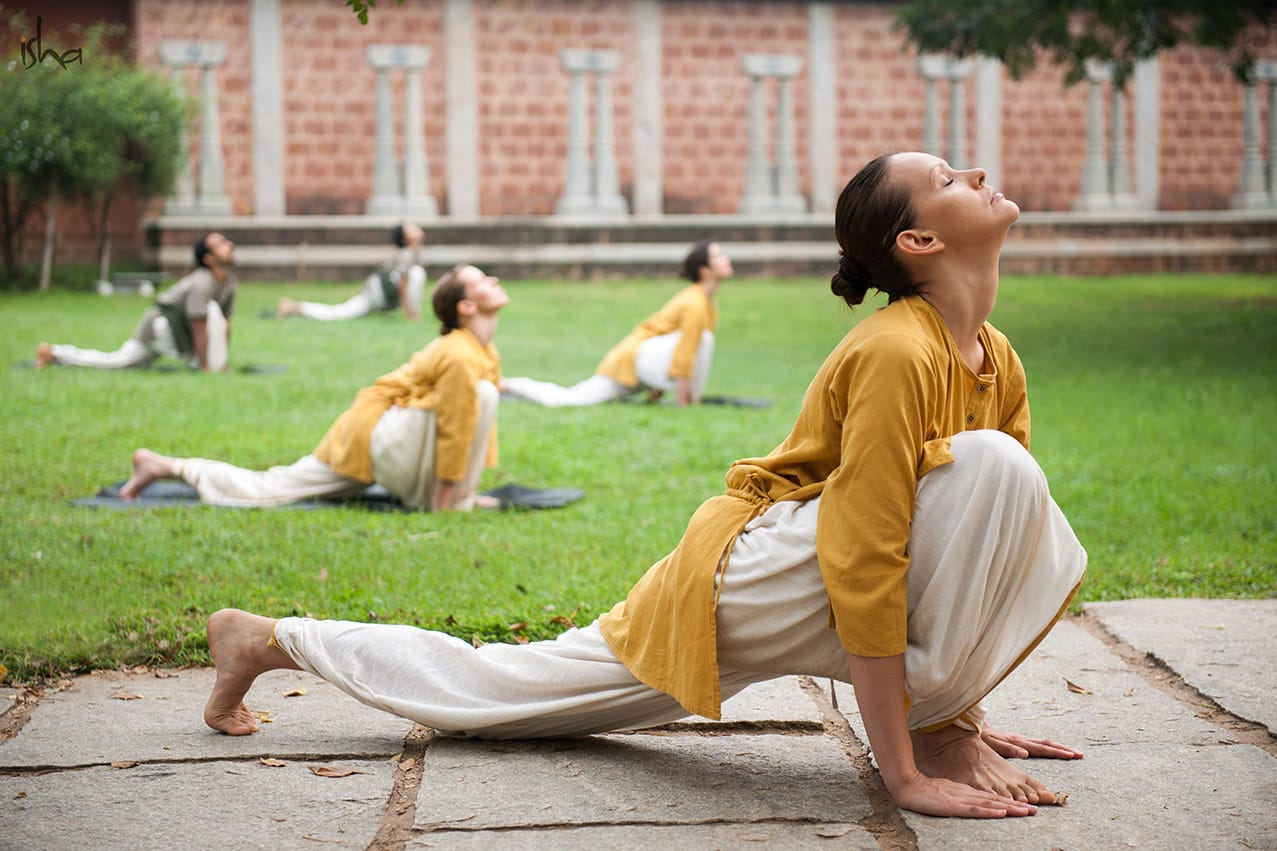
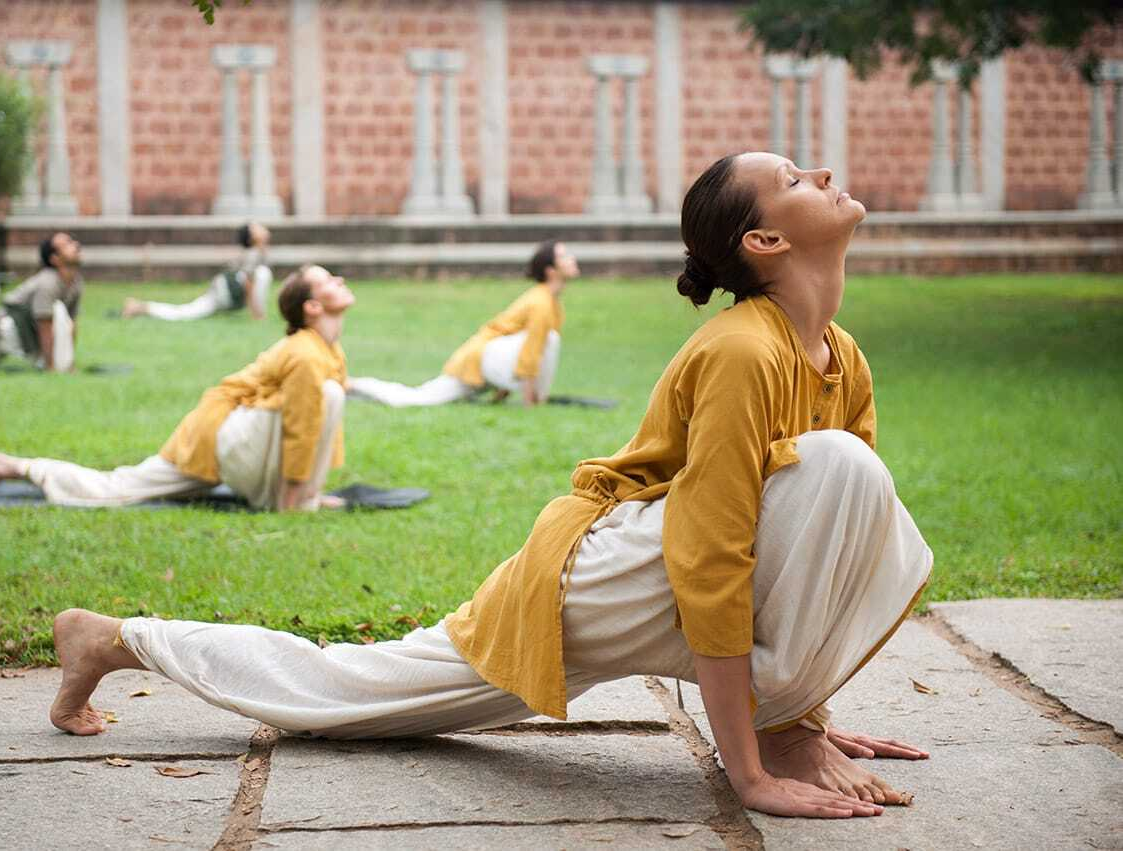
Remove certified badge overlay from Reeta's photo

diff --git a/index.html b/index.html
@@ -374,10 +374,7 @@
         <div class="guru-frame">
           <img src="images/reeta_yoga_teacher.png" alt="Reeta — Founder &amp; Isha Hatha Yoga Teacher, Yogartha Dehradun" class="guru-img" />
         </div>
-        <div class="guru-img-badge">
-          <span class="badge-icon"><svg viewBox="0 0 44 44" fill="none" xmlns="http://www.w3.org/2000/svg"><circle cx="22" cy="22" r="17" stroke="currentColor" stroke-width="1.5"/><path d="M13 22 L19 28 L31 16" stroke="currentColor" stroke-width="1.5" stroke-linecap="round" stroke-linejoin="round"/></svg></span>
-          Certified Isha Hatha Yoga Teacher
-        </div>
+
         <div class="guru-doodle">
           <img src="images/isha_hatha_symbol.png" alt="" class="mandala-deco" />
         </div>
